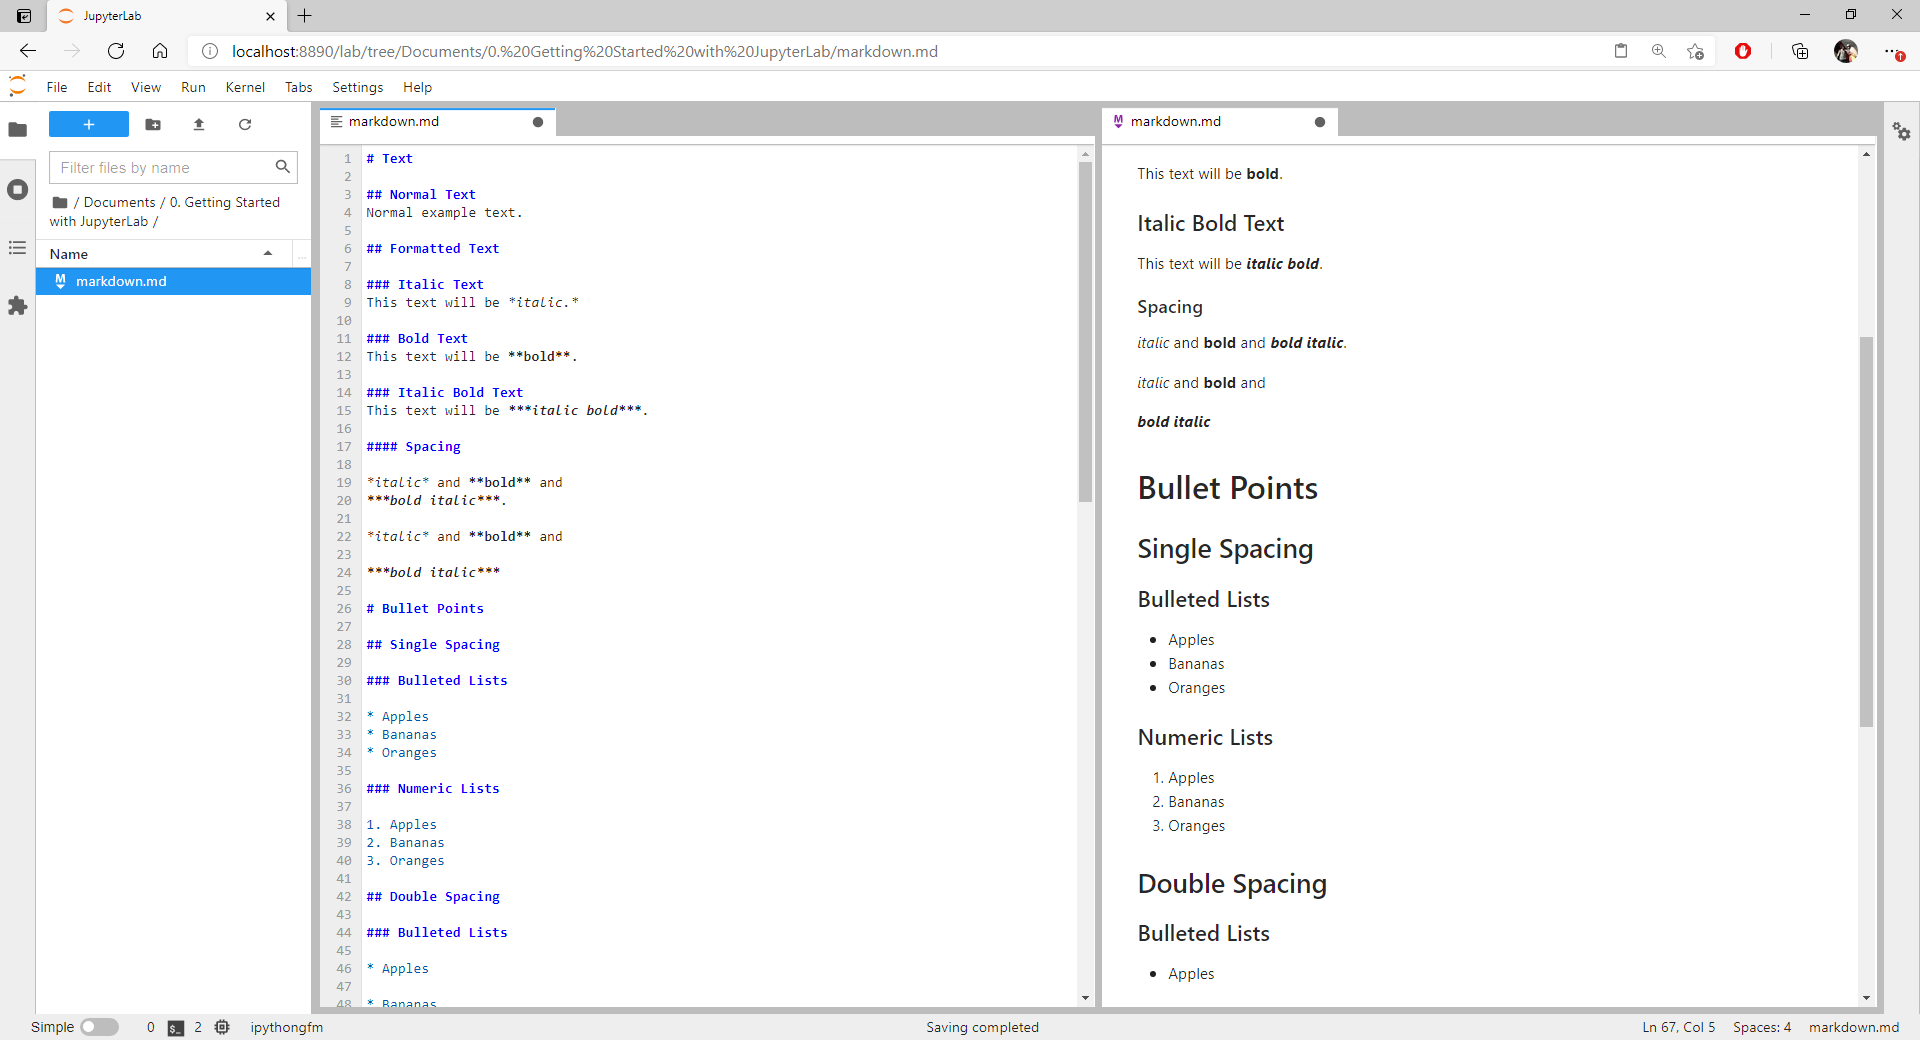
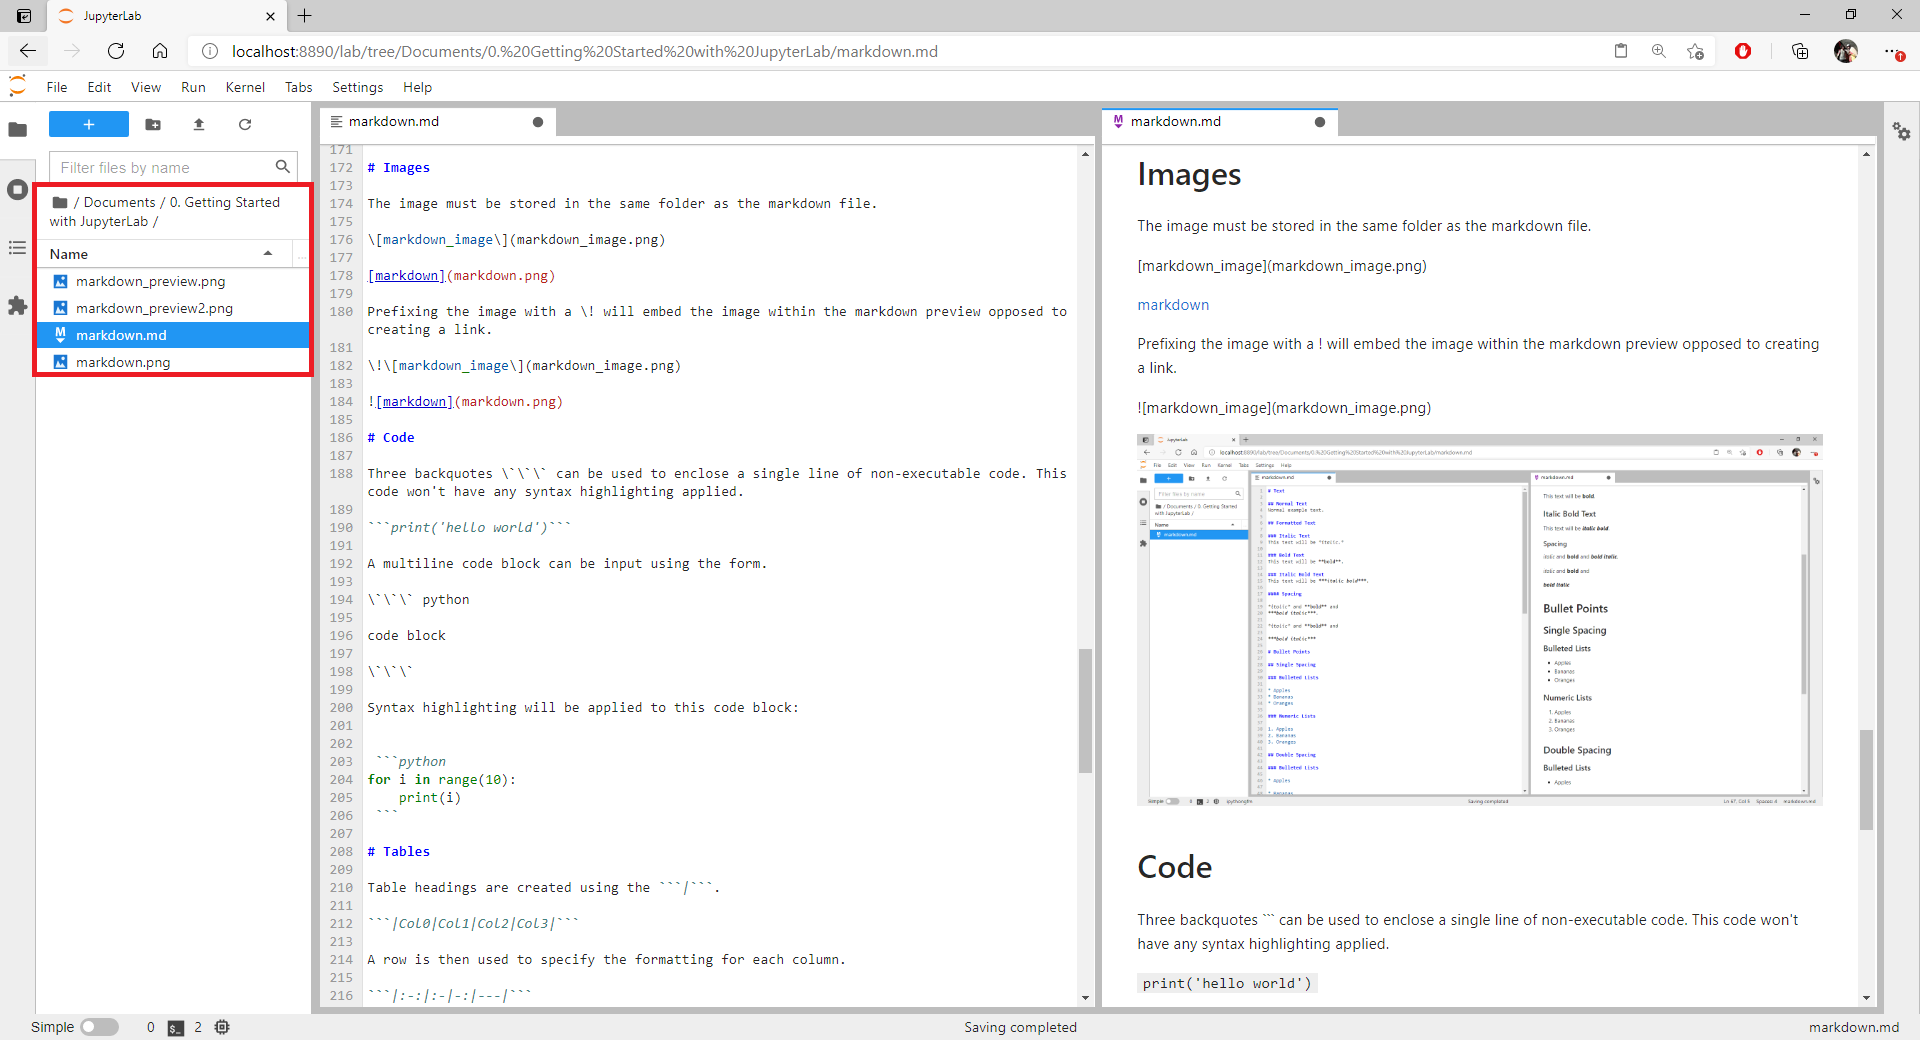
Add files via upload

diff --git a/markdown.md b/markdown.md
@@ -4,6 +4,14 @@ The text file is easy to produce but has no formatting. The Word File is relativ
 
 A markdown file can be thought of as a file that can be rapidly editted with the rapid formatting capability to include headings, formatted text, links, images, code (non-executable), tables and equations for example.
 
+The markdown file when edited in JupyterLab will look like a text file. It can be right clicked and "Show Markdown Preview" can be selected. 
+
+![markdown_preview.png](markdown_preview.png)
+
+This will show the raw text like file and the formatted markdown file side by side.
+
+![markdown_preview2.png](markdown_preview2.png)
+
 To rapidly format a markdown file we make use the following characters ```#```, ```*```, ```|```, ```$```, and some other basic syntax.
 
 Sometimes we need to include these characters within our file outwith their use for file formatting. To do so we need to prepend the formatting special character with a backslash ```\``` i.e. ```\#```, ```\*```, ```\|```, ```\$``` and some other basic syntax. When we wish to use the backslash itself we need to use two backslashes ```\\``` the first backslash prepends the second backslash denoting we do not want to use the second backslash for formatting. 
@@ -175,6 +183,8 @@ Prefixing the image with a \! will embed the image within the markdown preview o
 
 ![markdown](markdown.png)
 
+When uploaded to gitHub the image and the markdown file must be in the same folder (repository) for the image to display.
+
 # Code
 
 Three backquotes \`\`\` can be used to enclose a single line of non-executable code. This code won't have any syntax highlighting applied.
@@ -242,3 +252,9 @@ For example the fraction a half as a display equation is
 $$f=\frac{1}{2} $$
 
 The equation is in LaTex form. If you are unfamilar with LaTex you can use the Equation Editor in Microsoft Word as a what you see is what you get equation editor and copy the equation to LaTex.
+
+The equations display like the following in JupyterLab.
+
+![equations](equations.png)
+
+Unfortunately GitHub may not display the equations properly.
